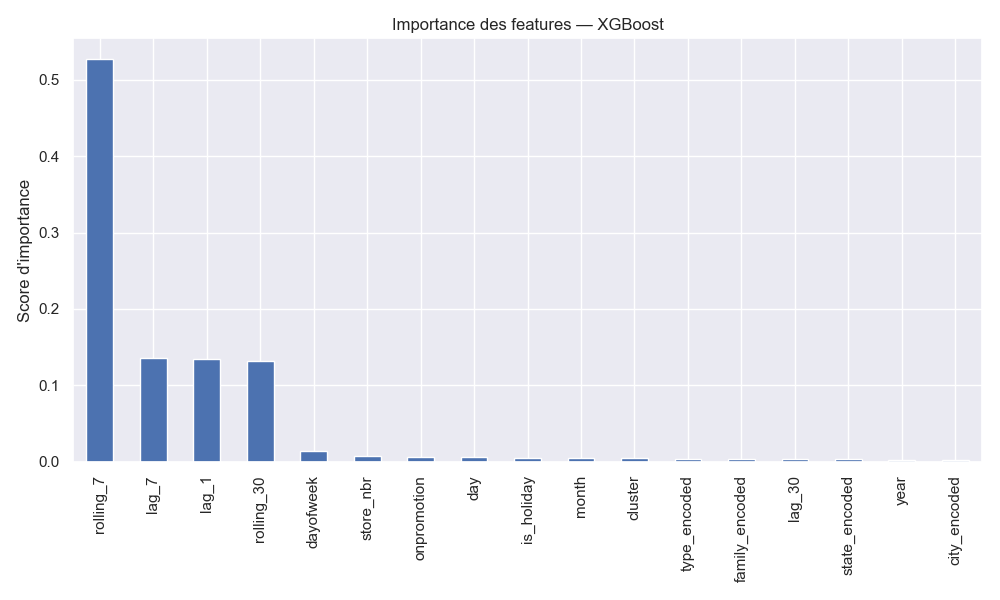
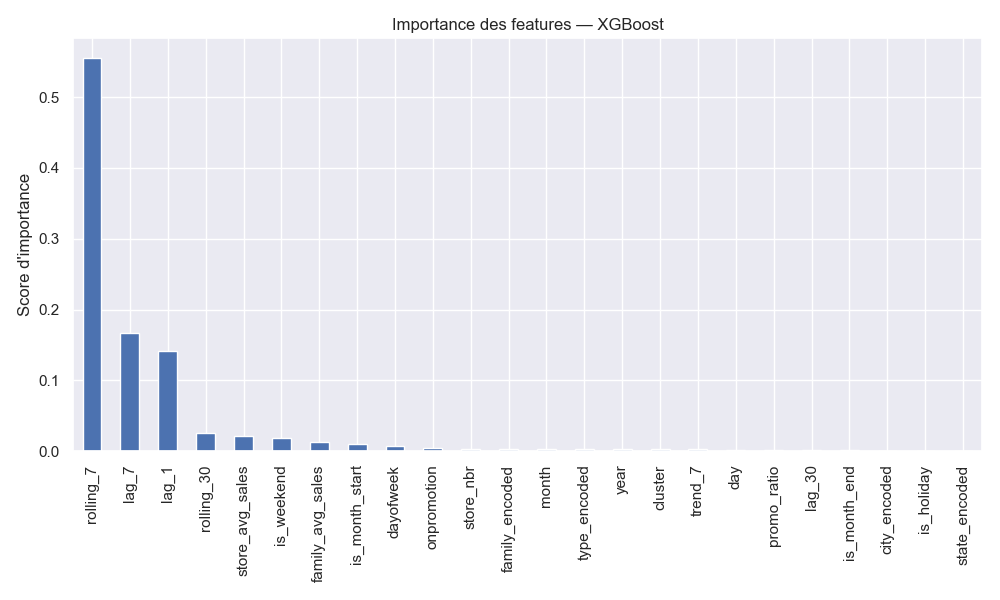
feat: ajout features avancées (family_avg, store_avg, trend, promo_ratio, weekend)

Changed region(s): [[0.0, 0.09, 0.434, 0.96], [0.62, 0.78, 0.992, 0.96], [0.465, 0.75, 0.589, 0.96]]

diff --git a/src/preprocessing.py b/src/preprocessing.py
@@ -151,6 +151,41 @@ def add_lag_features(df):
     print(f"Lag features ajoutées : {lag_cols}")
     return df
 
+def add_advanced_features(df):
+    """
+    Ajoute des features avancées pour capturer des patterns
+    plus complexes dans les données.
+    """
+    print("Calcul des features avancées...")
+
+    # 1. Moyenne des ventes par famille (tous magasins)
+    # Capture la tendance globale d'une famille de produits
+    family_avg = df.groupby(["date", "family"])["sales"].transform("mean")
+    df["family_avg_sales"] = family_avg
+
+    # 2. Moyenne des ventes par magasin (toutes familles)
+    # Capture la performance globale d'un magasin
+    store_avg = df.groupby(["date", "store_nbr"])["sales"].transform("mean")
+    df["store_avg_sales"] = store_avg
+
+    # 3. Tendance court terme — est-ce que les ventes montent ou descendent ?
+    # On compare lag_1 avec lag_7 : positif = tendance haussière
+    df["trend_7"] = df["lag_1"] - df["lag_7"]
+
+    # 4. Ratio promotion — quel % des produits de ce magasin sont en promo ?
+    promo_ratio = df.groupby(["date", "store_nbr"])["onpromotion"].transform("mean")
+    df["promo_ratio"] = promo_ratio
+
+    # 5. Est-ce le début ou la fin du mois ? (impact sur les achats)
+    df["is_month_start"] = (df["day"] <= 5).astype(int)
+    df["is_month_end"]   = (df["day"] >= 25).astype(int)
+
+    # 6. Est-ce le weekend ?
+    df["is_weekend"] = (df["dayofweek"] >= 5).astype(int)
+
+    print("Features avancées ajoutées !")
+    return df
+
 def run_preprocessing(filepath):
     
     df = load_data(filepath)
@@ -161,5 +196,6 @@ def run_preprocessing(filepath):
     df = merge_holidays(df, "data/holidays_events.csv") 
     df = merge_stores(df, "data/stores.csv")
     df = add_lag_features(df)
+    df = add_advanced_features(df)
     
     return df

diff --git a/src/model.py b/src/model.py
@@ -8,8 +8,11 @@ import os
 
 FEATURES = ["year", "month", "day", "dayofweek",
             "store_nbr", "family_encoded", "is_holiday",
-            "city_encoded", "state_encoded", "type_encoded", "cluster", 
-            "onpromotion", "lag_1", "lag_7", "lag_30", "rolling_7", "rolling_30"] 
+            "city_encoded", "state_encoded", "type_encoded",
+            "cluster", "onpromotion",
+            "lag_1", "lag_7", "lag_30", "rolling_7", "rolling_30",
+            "family_avg_sales", "store_avg_sales", "trend_7",
+            "promo_ratio", "is_month_start", "is_month_end", "is_weekend"]
 
 TARGET = "sales"
 
